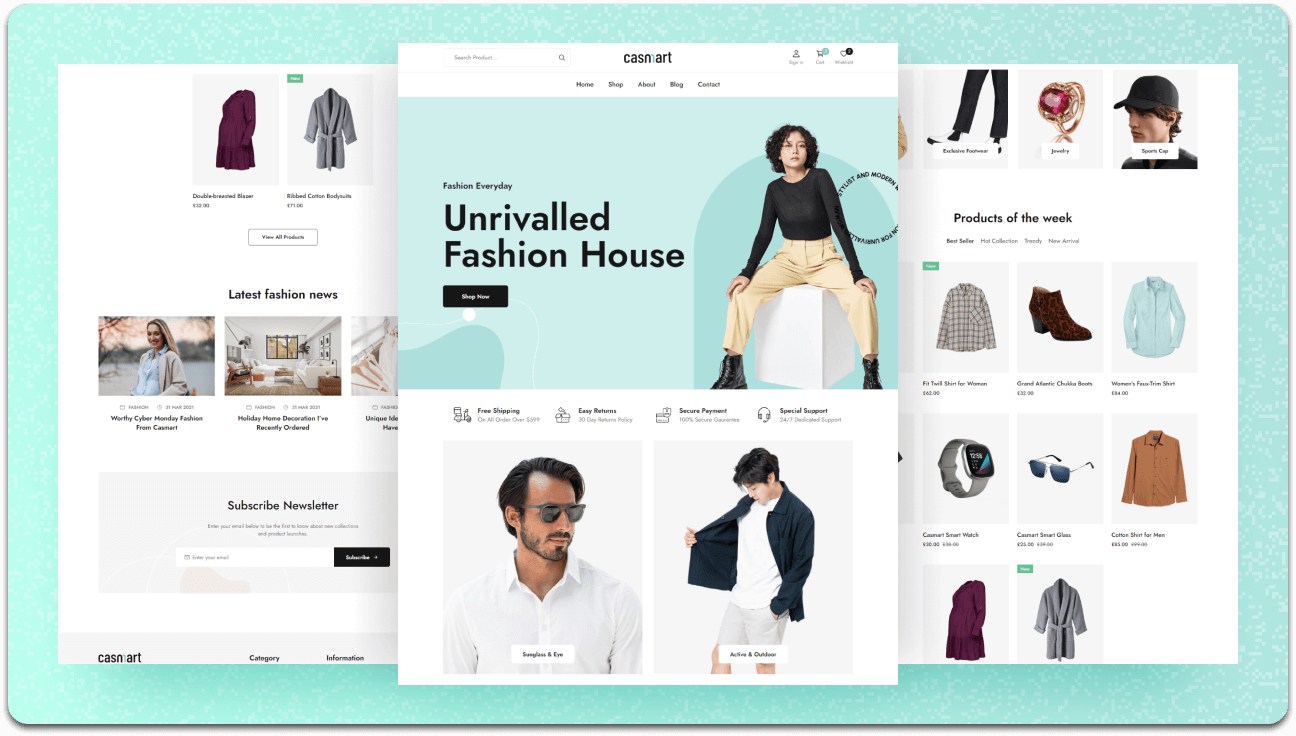
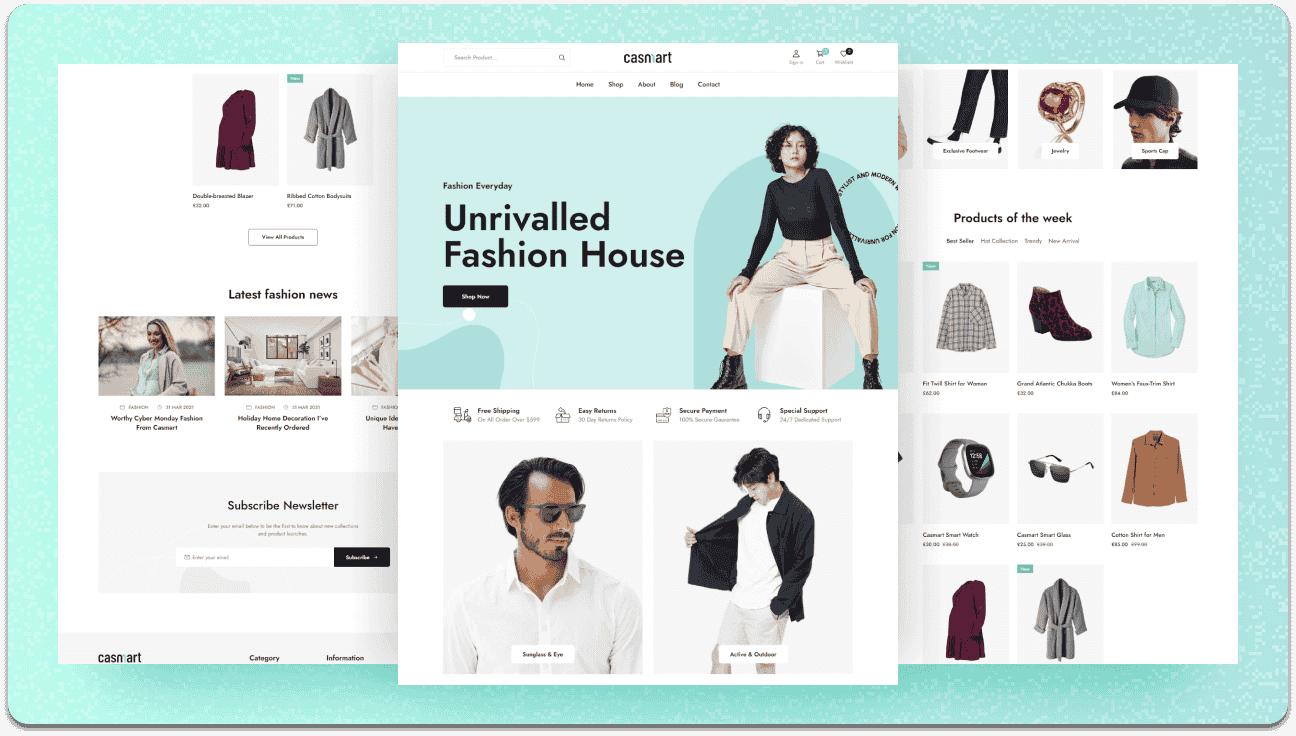
optimized images

diff --git a/src/pages/Portfolio.jsx b/src/pages/Portfolio.jsx
@@ -14,97 +14,97 @@ const Portfolio = () => {
   ]
 
   const projects = [
-    {
-      id: 1,
-      title: 'Photographer Portfolio',
-      category: 'portfolio',
-      description: 'minimalist portfolio website for a professional photographer with gallery features.',
-      image: '/Portfolio/Portfolio.png',
-      tags: ['React', 'TailwindCSS'],
-      liveUrl: 'https://muhammadabdullah029.github.io/RichardRyan/',
-      githubUrl: 'https://github.com/MuhammadAbdullah029/RichardRyan'
-    },
-    {
-      id: 2,
-      title: 'Redix',
-      category: 'branding',
-      description: 'Ridex. Search for cheap rental cars',
-      image: '/Portfolio/redix.png',
-      tags: ['Brand Design', 'Logo', 'Guidelines'],
-      liveUrl: 'https://muhammadabdullah029.github.io/redix/',
-      githubUrl: 'https://github.com/MuhammadAbdullah029/redix'
-    },
-    {
-      id: 3,
-      title: 'Anon Ecommerce Website',
-      category: 'ecommerce',
-      description: 'A modern e-commerce platform for anonymous products with a sleek design and user-friendly interface.',
-      image: '/Portfolio/anon.png',
-      tags: ['React', 'Framer Motion', 'Tailwind', 'CMS'],
-      liveUrl: 'https://muhammadabdullah029.github.io/anon/',
-      githubUrl: 'https://github.com/MuhammadAbdullah029/anon'
-    },
-    {
-      id: 4,
-      title: 'Blogy',
-      category: 'blog',
-      description: 'A modern blogging platform with a clean design and user-friendly interface.',
-      image: '/Portfolio/blogy.png',
-      tags: ['React.js', 'Tailwind CSS'],
-      liveUrl: 'https://muhammadabdullah029.github.io/blogy/',
-      githubUrl: 'https://github.com/MuhammadAbdullah029/blogy'
-    },
-    {
-      id: 5,
-      title: 'Casmart E-commerce',
-      category: 'ecommerce',
-      description: 'Casmart is a modern e-commerce platform for smart home devices with a sleek design and user-friendly interface.',
-      image: '/Portfolio/casmart.png',
-      tags: ['React', 'Tailwind CSS', 'Stripe'],
-      liveUrl: 'https://muhammadabdullah029.github.io/casmart/',
-      githubUrl: 'https://github.com/MuhammadAbdullah029/casmart'
-    },
-    {
-      id: 6,
-      title: 'Das Grüne Agency',
-      category: 'branding',
-      description: 'A branding project Das Grüne, A Digital Agency.',
-      image: '/Portfolio/DasGrune.webp',
-      tags: ['Brand Design', 'React', 'GSAP'],
-      liveUrl: 'https://das-grune-kmc4081zb-muhammad-abdullahs-projects-fd44b5c2.vercel.app/',
-      githubUrl: 'https://github.com/MuhammadAbdullah029/Das-Grune'
-    },
-    {
-      id: 7,
-      title: 'Tickr',
-      category: 'ecommerce',
-      description: 'A modern e-commerce platform for digital products with a focus on user experience and performance.',
-      image: '/Portfolio/Tickr.png',
-      tags: ['HTML', 'CSS', 'JS', 'SEO'],
-      liveUrl: 'https://muhammadabdullah029.github.io/tickr/',
-      githubUrl: 'https://github.com/MuhammadAbdullah029/tickr'
-    },
-    {
-      id: 8,
-      title: 'Travel Agency',
-      category: 'branding',
-      description: 'A travel agency project.',
-      image: '/Portfolio/Travel.png',
-      tags: ['HTML', 'CSS', 'JS', 'SEO'],
-      liveUrl: 'https://muhammadabdullah029.github.io/travel/',
-      githubUrl: 'https://github.com/MuhammadAbdullah029/travel'
-    },
-    {
-      id: 9,
-      title: 'vCard Portfolio',
-      category: 'portfolio',
-      description: 'A Portfolio website',
-      image: '/Portfolio/portfolio.png',
-      tags: ['HTML', 'CSS', 'JS'],
-      liveUrl: 'https://muhammadabdullah029.github.io/vCard/',
-      githubUrl: 'https://github.com/MuhammadAbdullah029/vCard'
-    }
-  ]
+  {
+    id: 1,
+    title: 'Photographer Portfolio',
+    category: 'portfolio',
+    description: 'A minimalist and elegant portfolio website for a professional photographer, featuring a dynamic gallery and seamless user experience.',
+    image: '/Portfolio/Portfolio.png',
+    tags: ['React', 'TailwindCSS'],
+    liveUrl: 'https://muhammadabdullah029.github.io/RichardRyan/',
+    githubUrl: 'https://github.com/MuhammadAbdullah029/RichardRyan'
+  },
+  {
+    id: 2,
+    title: 'Redix',
+    category: 'branding',
+    description: 'A modern brand identity and web presence for Ridex, a platform to search and book affordable rental cars with ease.',
+    image: '/Portfolio/redix.png',
+    tags: ['Brand Design', 'Logo', 'Guidelines'],
+    liveUrl: 'https://muhammadabdullah029.github.io/redix/',
+    githubUrl: 'https://github.com/MuhammadAbdullah029/redix'
+  },
+  {
+    id: 3,
+    title: 'Anon Ecommerce Website',
+    category: 'ecommerce',
+    description: 'A sleek and secure e-commerce platform for anonymous products, offering a modern design and intuitive shopping experience.',
+    image: '/Portfolio/anon.png',
+    tags: ['React', 'Framer Motion', 'Tailwind', 'CMS'],
+    liveUrl: 'https://muhammadabdullah029.github.io/anon/',
+    githubUrl: 'https://github.com/MuhammadAbdullah029/anon'
+  },
+  {
+    id: 4,
+    title: 'Blogy',
+    category: 'blog',
+    description: 'A clean and modern blogging platform designed for content creators, with a focus on readability and user engagement.',
+    image: '/Portfolio/blogy.png',
+    tags: ['React.js', 'Tailwind CSS'],
+    liveUrl: 'https://muhammadabdullah029.github.io/blogy/',
+    githubUrl: 'https://github.com/MuhammadAbdullah029/blogy'
+  },
+  {
+    id: 5,
+    title: 'Casmart E-commerce',
+    category: 'ecommerce',
+    description: 'A cutting-edge e-commerce site for smart home devices, featuring a stylish interface and smooth shopping journey.',
+    image: '/Portfolio/casmart.png',
+    tags: ['React', 'Tailwind CSS', 'Stripe'],
+    liveUrl: 'https://muhammadabdullah029.github.io/casmart/',
+    githubUrl: 'https://github.com/MuhammadAbdullah029/casmart'
+  },
+  {
+    id: 6,
+    title: 'Das Grüne Agency',
+    category: 'branding',
+    description: 'A vibrant branding project for Das Grüne, a digital agency, showcasing creative design and interactive web elements.',
+    image: '/Portfolio/DasGrune.webp',
+    tags: ['Brand Design', 'React', 'GSAP'],
+    liveUrl: 'https://das-grune-kmc4081zb-muhammad-abdullahs-projects-fd44b5c2.vercel.app/',
+    githubUrl: 'https://github.com/MuhammadAbdullah029/Das-Grune'
+  },
+  {
+    id: 7,
+    title: 'Tickr',
+    category: 'ecommerce',
+    description: 'A high-performance e-commerce platform for digital products, optimized for speed, SEO, and user experience.',
+    image: '/Portfolio/Tickr.png',
+    tags: ['HTML', 'CSS', 'JS', 'SEO'],
+    liveUrl: 'https://muhammadabdullah029.github.io/tickr/',
+    githubUrl: 'https://github.com/MuhammadAbdullah029/tickr'
+  },
+  {
+    id: 8,
+    title: 'Travel Agency',
+    category: 'branding',
+    description: 'A visually appealing website for a travel agency, designed to inspire adventure and simplify trip planning.',
+    image: '/Portfolio/Travel.png',
+    tags: ['HTML', 'CSS', 'JS', 'SEO'],
+    liveUrl: 'https://muhammadabdullah029.github.io/travel/',
+    githubUrl: 'https://github.com/MuhammadAbdullah029/travel'
+  },
+  {
+    id: 9,
+    title: 'vCard Portfolio',
+    category: 'portfolio',
+    description: 'A stylish and responsive portfolio website to showcase personal projects and professional skills.',
+    image: '/Portfolio/portfolio.png',
+    tags: ['HTML', 'CSS', 'JS'],
+    liveUrl: 'https://muhammadabdullah029.github.io/vCard/',
+    githubUrl: 'https://github.com/MuhammadAbdullah029/vCard'
+  }
+]
 
   const filteredProjects = activeFilter === 'all' 
     ? projects 
